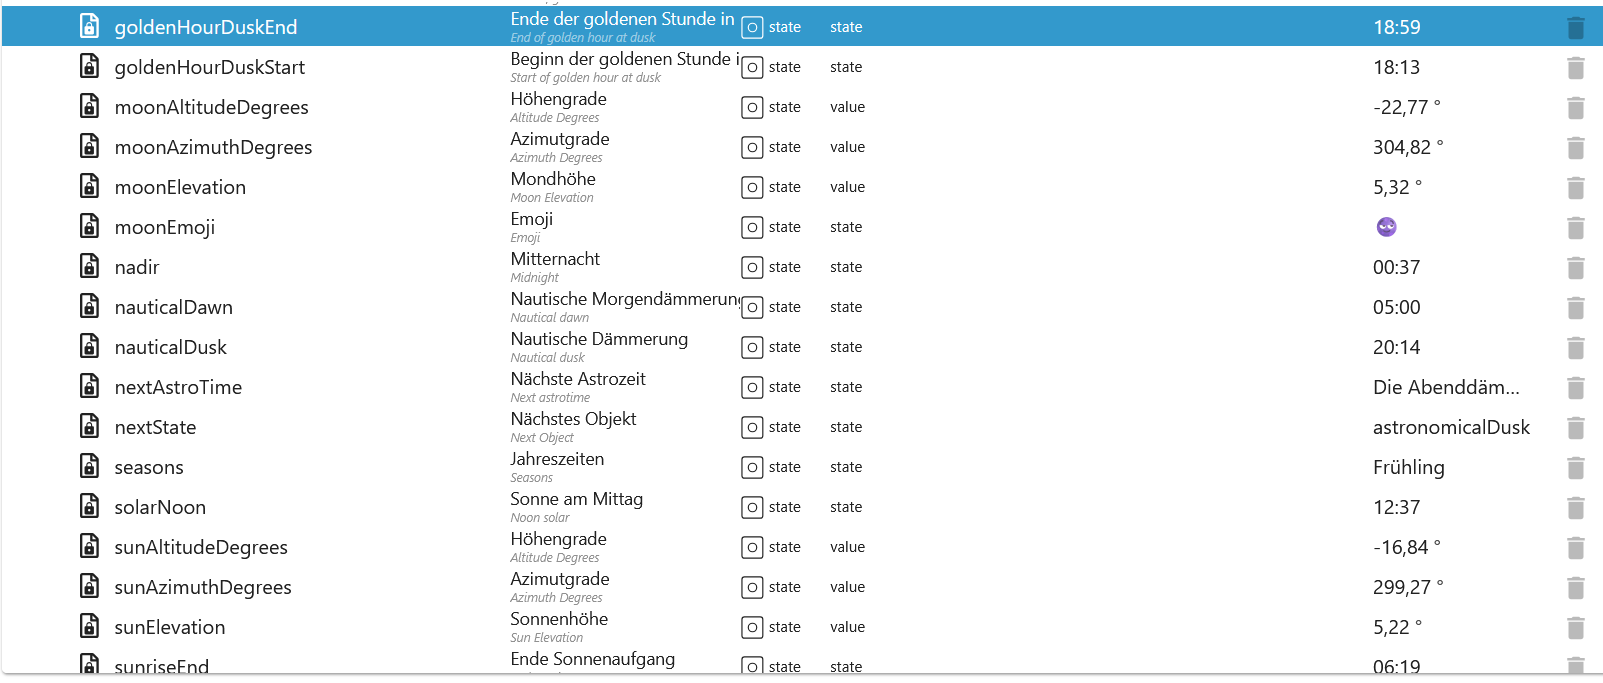
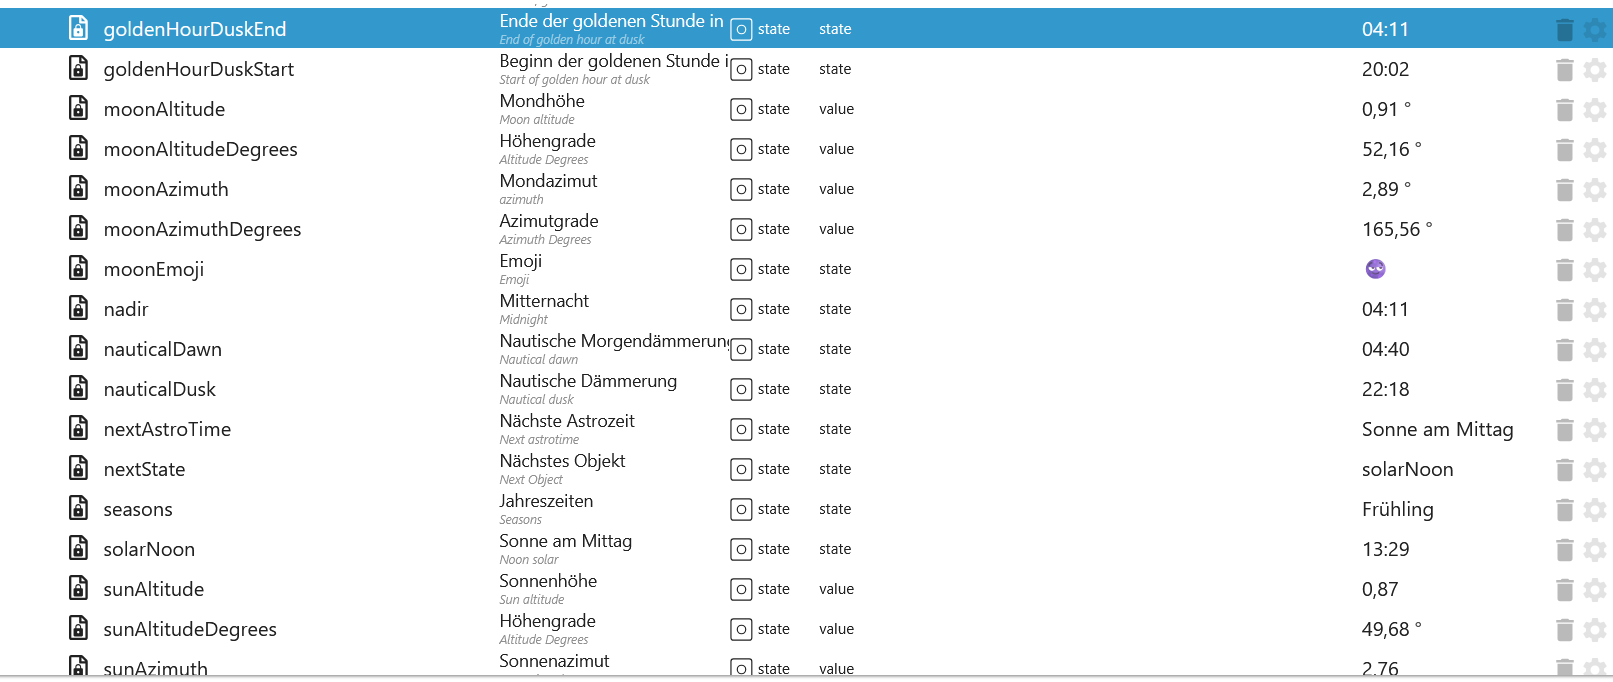
fix suncalc

diff --git a/lib/helper.js b/lib/helper.js
@@ -4447,25 +4447,46 @@ module.exports = {
             type: "number",
             role: "value",
             name: {
-                en: "Sun Elevation",
+                en: "Sun altitude",
                 de: "Sonnenhöhe",
-                ru: "Высота солнца",
-                pt: "Elevação do sol",
-                nl: "Hoogte van de zon",
-                fr: "Sun Elevation",
-                it: "Altezza del sole",
-                es: "Elevación solar",
-                pl: "Wzniesienie Słońca",
-                uk: "Висота Сонця",
-                "zh-cn": "太阳仰角",
+                ru: "Высота Солнца",
+                pt: "Altitude do sol",
+                nl: "Zonhoogte",
+                fr: "altitude du soleil",
+                it: "altitudine del sole",
+                es: "Altitud del sol",
+                pl: "Wysokość słońca",
+                uk: "Висота сонця",
+                "zh-cn": "太阳高度角",
             },
-            desc: "Sun Elevation",
+            desc: "Sun altitude",
             read: true,
             write: false,
-            unit: "°",
             def: 0,
         };
-        await this.createDataPoint(`suncalc.sunElevation`, common, "state", 0, null);
+        await this.createDataPoint(`suncalc.sunAltitude`, common, "state", 0, null);
+        common = {
+            type: "number",
+            role: "value",
+            name: {
+                en: "Sun azimuth",
+                de: "Sonnenazimut",
+                ru: "Азимут Солнца",
+                pt: "Azimute do sol",
+                nl: "Zonazimut",
+                fr: "Azimut du soleil",
+                it: "Azimut solare",
+                es: "Azimut del sol",
+                pl: "Azymut słońca",
+                uk: "Сонце азимут",
+                "zh-cn": "太阳方位角",
+            },
+            desc: "Sun azimuth",
+            read: true,
+            write: false,
+            def: 0,
+        };
+        await this.createDataPoint(`suncalc.sunAzimuth`, common, "state", 0, null);
         common = {
             type: "number",
             role: "value",
@@ -4516,25 +4537,48 @@ module.exports = {
             type: "number",
             role: "value",
             name: {
-                en: "Moon Elevation",
+                en: "Moon altitude",
                 de: "Mondhöhe",
                 ru: "Высота Луны",
-                pt: "Elevação da Lua",
-                nl: "Hoogte van de maan",
-                fr: "Élévation de la lune",
-                it: "Altezza lunare",
-                es: "Elevación lunar",
+                pt: "Altitude da lua",
+                nl: "Maanhoogte",
+                fr: "Altitude de la lune",
+                it: "Altezza della luna",
+                es: "Altitud de la luna",
                 pl: "Wysokość księżyca",
-                uk: "Висота Місяця",
-                "zh-cn": "月球仰角",
+                uk: "Висота місяця",
+                "zh-cn": "月球高度",
             },
-            desc: "Moon Elevation",
+            desc: "Moon altitude",
             read: true,
             write: false,
             unit: "°",
             def: 0,
         };
-        await this.createDataPoint(`suncalc.moonElevation`, common, "state", 0, null);
+        await this.createDataPoint(`suncalc.moonAltitude`, common, "state", 0, null);
+        common = {
+            type: "number",
+            role: "value",
+            name: {
+                en: "Moon azimuth",
+                de: "Mondazimut",
+                ru: "Азимут Луны",
+                pt: "Azimute da lua",
+                nl: "Maan azimut",
+                fr: "Azimut de la Lune",
+                it: "Azimut della luna",
+                es: "Azimut de la luna",
+                pl: "Azymut księżyca",
+                uk: "Азимут місяця",
+                "zh-cn": "月球方位角",
+            },
+            desc: "azimuth",
+            read: true,
+            write: false,
+            unit: "°",
+            def: 0,
+        };
+        await this.createDataPoint(`suncalc.moonAzimuth`, common, "state", 0, null);
         common = {
             type: "number",
             role: "value",

diff --git a/main.js b/main.js
@@ -386,7 +386,8 @@ class OpenMeteo extends utils.Adapter {
         this.log.debug(JSON.stringify(sunPosition));
         const moonPosition = SunCalc.getMoonData(new Date(), this.param.latitude, this.param.longitude);
         this.log.debug(JSON.stringify(moonPosition));
-        await this.setState(`suncalc.sunElevation`, { val: this.roundToTwo(sunPosition.azimuth), ack: true });
+        await this.setState(`suncalc.sunAltitude`, { val: this.roundToTwo(sunPosition.altitude), ack: true });
+        await this.setState(`suncalc.sunAzimuth`, { val: this.roundToTwo(sunPosition.azimuth), ack: true });
         await this.setState(`suncalc.sunAltitudeDegrees`, {
             val: this.roundToTwo(sunPosition.altitudeDegrees),
             ack: true,
@@ -395,7 +396,8 @@ class OpenMeteo extends utils.Adapter {
             val: this.roundToTwo(sunPosition.azimuthDegrees),
             ack: true,
         });
-        await this.setState(`suncalc.moonElevation`, { val: this.roundToTwo(moonPosition.azimuth), ack: true });
+        await this.setState(`suncalc.moonAltitude`, { val: this.roundToTwo(moonPosition.altitude), ack: true });
+        await this.setState(`suncalc.moonAzimuth`, { val: this.roundToTwo(moonPosition.azimuth), ack: true });
         await this.setState(`suncalc.moonAltitudeDegrees`, {
             val: this.roundToTwo(moonPosition.altitudeDegrees),
             ack: true,

diff --git a/docs/de/README.md b/docs/de/README.md
@@ -350,9 +350,10 @@
 | goldenHourDawnStart | Beginn der goldenen Stunde im Morgengrauen 🟢  |
 | goldenHourDuskEnd   | Ende der goldenen Stunde in der Dämmerung 🟢   |
 | goldenHourDuskStart | Beginn der goldenen Stunde in der Dämmerung 🟢 |
+| moonAltitude        | Mondhöhe 🔴                                    |
 | moonAltitudeDegrees | Mond Höhengrad 🔴                              |
+| moonAzimuth         | Mondazimuth 🔴                                 |
 | moonAzimuthDegrees  | Mond Azimut 🔴                                 |
-| moonElevation       | Mondhöhe 🔴                                    |
 | moonEmoji           | Mond Emoji 🔴                                  |
 | nadir               | Mitternacht 🔴                                 |
 | nauticalDawn        | Nautische Morgendämmerung 🟢                   |
@@ -361,9 +362,10 @@
 | nextState           | Nächstes Objekt (State - Name) 🔴              |
 | seasons             | Jahreszeiten 🟢                                |
 | solarNoon           | Mittagssonne 🟢                                |
+| sunAltitude         | Sonnenhöhe 🔴                                  |
 | sunAltitudeDegrees  | Sonne Höhengrade 🔴                            |
+| sunAzimuth          | Sonnenazimuth 🔴                               |
 | sunAzimuthDegrees   | Azimuth Sonnenhöhe 🔴                          |
-| sunElevation        | Sonnenhöhe 🔴                                  |
 | sunriseEnd          | Ende Sonnenaufgang 🟢                          |
 | sunriseStart        | Beginn Sonnenaufgang 🟢                        |
 | sunsetEnd           | Ende Sonnenuntergang 🟢                        |

diff --git a/docs/en/README.md b/docs/en/README.md
@@ -350,9 +350,10 @@
 | goldenHourDawnStart | Beginning of golden hour at dawn 🟢   |
 | goldenHourDuskEnd   | End of golden hour at dusk 🟢         |
 | goldenHourDuskStart | Beginning of golden hour at dusk 🟢   |
+| moonAltitude        | Moon altitude 🔴                      |
 | moonAltitudeDegrees | Altitude Degrees 🔴                   |
+| moonAzimuth         | Moon azimuth 🔴                       |
 | moonAzimuthDegrees  | Azimuth 🔴                            |
-| moonElevation       | Moon elevation 🔴                     |
 | moonEmoji           | Moon Emoji 🔴                         |
 | nadir               | Nadir 🔴                              |
 | nauticalDawn        | Nautical dawn 🟢                      |
@@ -361,9 +362,10 @@
 | nextState           | next Object (State - Name) 🔴         |
 | seasons             | Seasons 🟢                            |
 | solarNoon           | Solar noon 🟢                         |
+| sunAltitude         | Sun altitude 🔴                       |
 | sunAltitudeDegrees  | Sun altitude degrees 🔴               |
+| sunAzimuth          | Sun azimuth 🔴                        |
 | sunAzimuthDegrees   | Sun azimuth degrees 🔴                |
-| sunElevation        | Elevation 🔴                          |
 | sunriseEnd          | Sunrise end 🟢                        |
 | sunriseStart        | Sunrise start 🟢                      |
 | sunsetEnd           | Sunset end 🟢                         |
